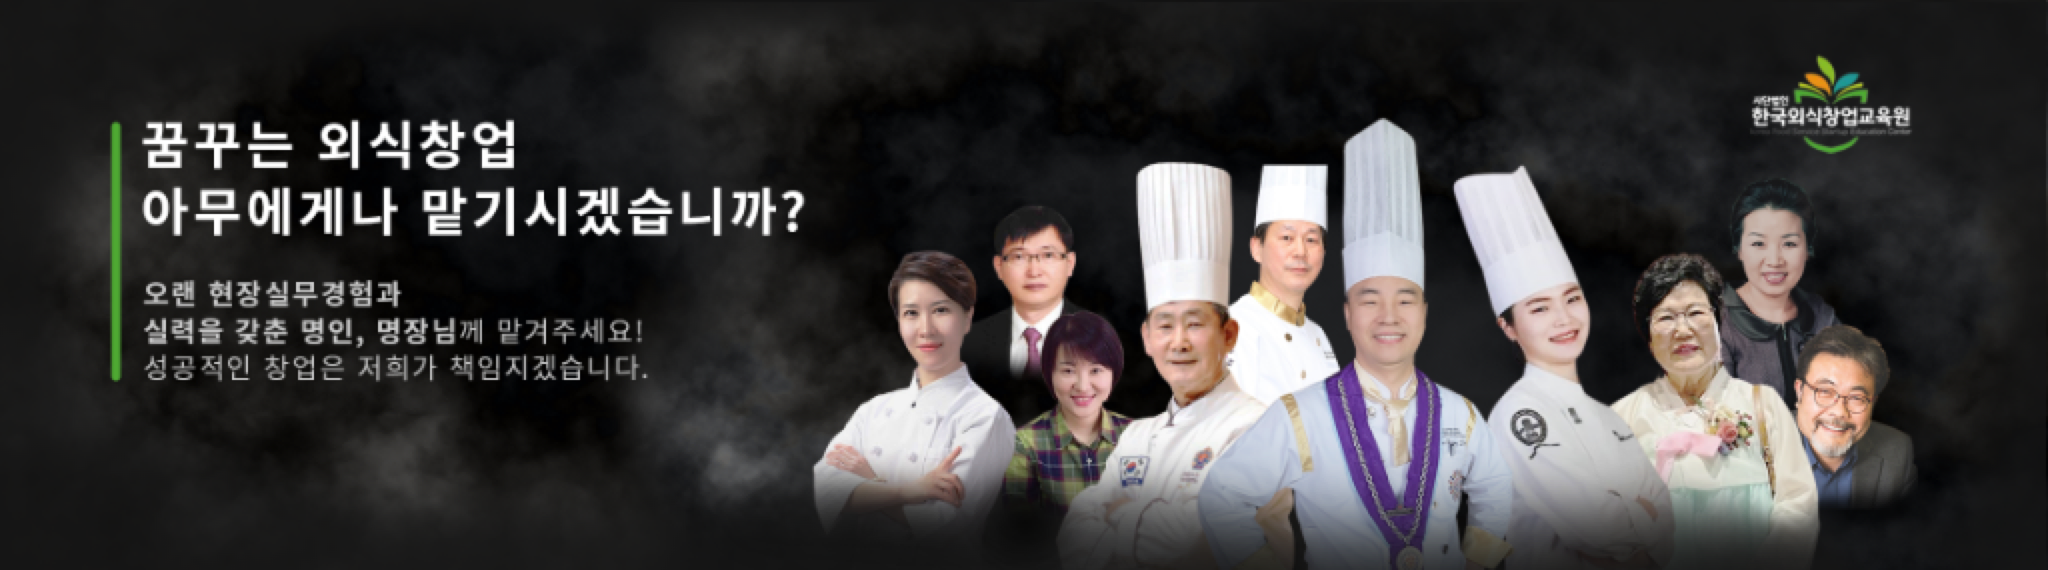
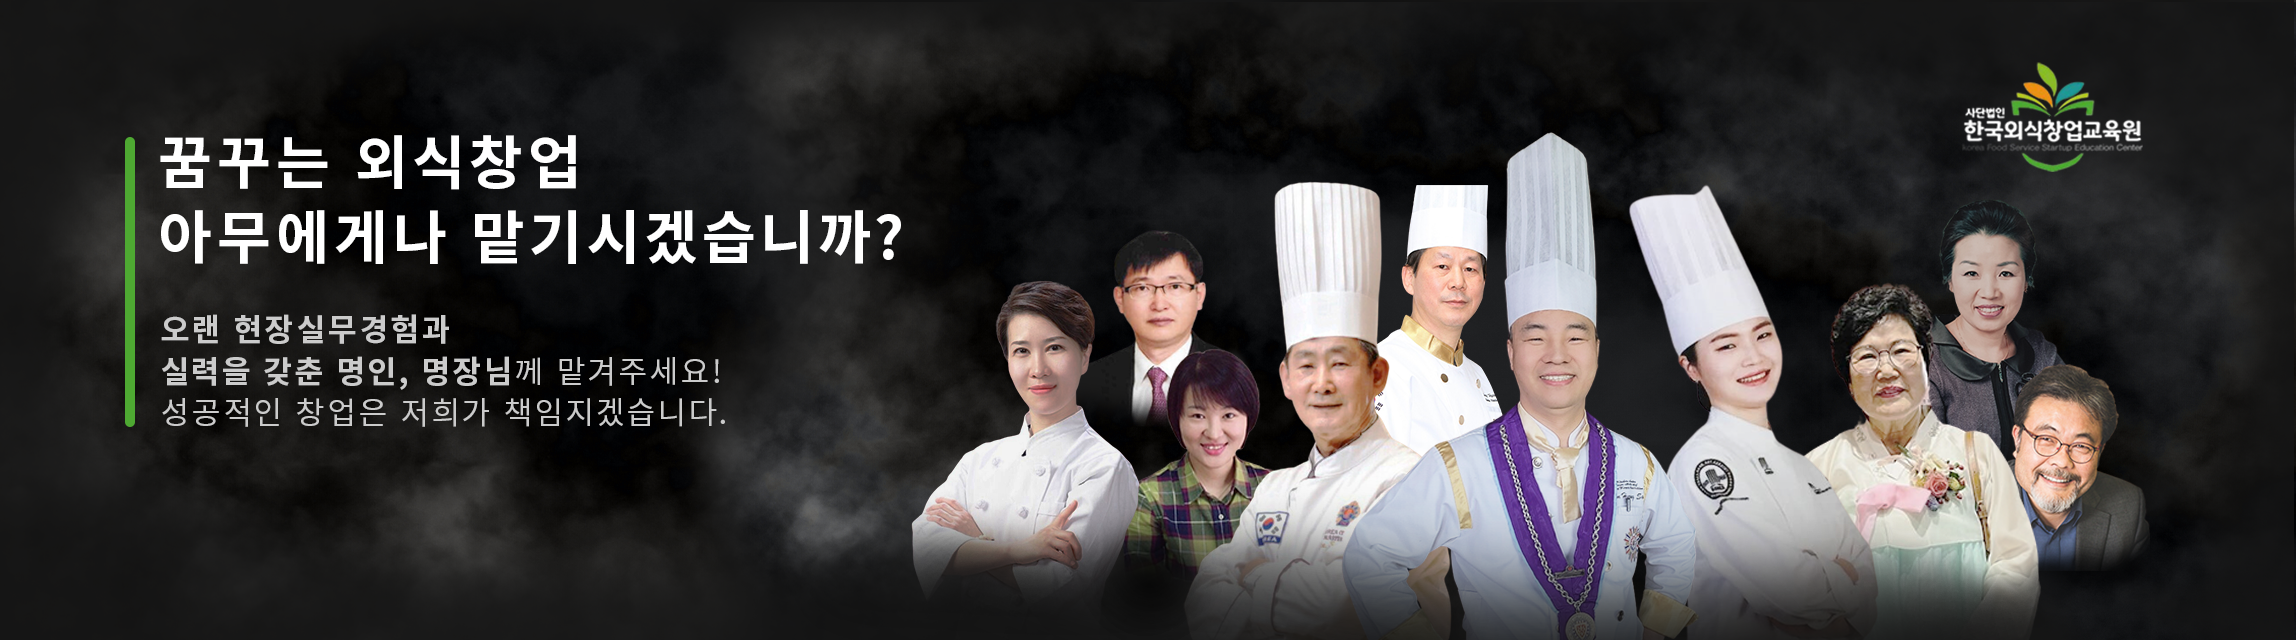
fix: KFSSEC/이미지/배너1.png 2296px 원본 파일 교체 및 풀블리드 여백/크롭 제로화 적용

diff --git a/src/components/Hero.jsx b/src/components/Hero.jsx
@@ -6,94 +6,94 @@ export default function Hero({ onExploreClick, onAboutClick, onScrollNext }) {
   const { t } = useLanguage();
 
   return (
-    <section className="relative overflow-hidden bg-[#070908] text-white border-b-2 border-[#C5A059] shadow-2xl">
+    <section className="relative w-full overflow-hidden bg-[#000000] text-white border-b-2 border-[#C5A059] shadow-2xl">
       
-      {/* Main Wide Banner Showcase - 100% Full Aspect Ratio Preserved, Never Cropped! */}
-      <div className="w-full bg-[#050505] flex justify-center items-center pt-3 pb-2 sm:pt-6 sm:pb-4 border-b border-stone-900">
-        <div className="w-full max-w-[1500px] px-2 sm:px-4 lg:px-6">
-          <div className="relative w-full rounded-2xl overflow-hidden shadow-2xl bg-black border border-stone-800/80">
-            <img
-              src="/images/main_banner_masters_2x.png"
-              srcSet="/images/main_banner_masters.png 1024w, /images/main_banner_masters_2x.png 2048w"
-              sizes="(max-width: 1024px) 100vw, 1500px"
-              alt={t("꿈꾸는 외식창업 아무에게나 맡기시겠습니까? 사단법인 한국외식창업교육원 대한민국 명인·명장 교수진")}
-              className="w-full h-auto block object-contain mx-auto"
-              style={{ imageRendering: '-webkit-optimize-contrast' }}
-            />
-          </div>
+      {/* 100% Full-bleed Ultra-HD Banner (2296x640 Native Aspect Ratio, Zero Cropping, Zero Border Padding) */}
+      <div className="w-full bg-[#000000] flex justify-center items-center">
+        <div className="w-full max-w-[2296px] mx-auto">
+          <img
+            src="/images/main_banner_masters.png"
+            alt={t("꿈꾸는 외식창업 아무에게나 맡기시겠습니까? 사단법인 한국외식창업교육원 대한민국 명인·명장 교수진")}
+            className="w-full h-auto block select-none"
+            style={{
+              aspectRatio: '2296 / 640',
+            }}
+          />
         </div>
       </div>
 
       {/* Floating Action Buttons & 3 Core Stats Overlay */}
-      <div className="relative z-10 py-6 sm:py-8 px-4 sm:px-8 max-w-7xl mx-auto flex flex-col items-center gap-5 sm:gap-6">
-        
-        {/* Action Buttons Row */}
-        <div className="flex flex-col sm:flex-row items-stretch sm:items-center justify-center gap-3 sm:gap-4 w-full sm:w-auto">
-          <button
-            onClick={onExploreClick}
-            className="px-7 sm:px-9 py-3.5 bg-gradient-to-r from-[#0B3C26] to-[#146340] hover:from-[#072819] hover:to-[#0B3C26] text-white font-black text-sm sm:text-base rounded-2xl shadow-2xl transition-all flex items-center justify-center gap-2 border-2 border-[#C5A059] cursor-pointer group"
-            aria-label={t("교육과정 둘러보기 목록으로 이동")}
-          >
-            <span>{t("교육과정 둘러보기")}</span>
-            <ChevronRight className="w-5 h-5 text-[#D4AF37] group-hover:translate-x-1 transition-transform" />
-          </button>
+      <div className="relative z-10 bg-gradient-to-b from-[#000000] via-[#050A07] to-[#0B150F] py-6 sm:py-8 px-4 sm:px-8 border-t border-stone-900">
+        <div className="max-w-7xl mx-auto flex flex-col items-center gap-5 sm:gap-6">
+          
+          {/* Action Buttons Row */}
+          <div className="flex flex-col sm:flex-row items-stretch sm:items-center justify-center gap-3 sm:gap-4 w-full sm:w-auto">
+            <button
+              onClick={onExploreClick}
+              className="px-7 sm:px-9 py-3.5 bg-gradient-to-r from-[#0B3C26] to-[#146340] hover:from-[#072819] hover:to-[#0B3C26] text-white font-black text-xs sm:text-sm rounded-2xl shadow-2xl transition-all flex items-center justify-center gap-2 border-2 border-[#C5A059] cursor-pointer group"
+              aria-label={t("교육과정 둘러보기 목록으로 이동")}
+            >
+              <span>{t("교육과정 둘러보기")}</span>
+              <ChevronRight className="w-4 h-4 text-[#D4AF37] group-hover:translate-x-1 transition-transform" />
+            </button>
 
-          <button
-            onClick={onAboutClick}
-            className="px-7 sm:px-9 py-3.5 bg-black/80 hover:bg-black text-[#D4AF37] hover:text-white font-black text-sm sm:text-base rounded-2xl shadow-2xl transition-all flex items-center justify-center gap-2 border-2 border-[#C5A059]/80 cursor-pointer group backdrop-blur-md"
-            aria-label={t("교육원 상세 소개 페이지로 이동")}
-          >
-            <span>{t("교육원 소개")}</span>
-            <ChevronRight className="w-5 h-5 text-white group-hover:translate-x-1 transition-transform" />
-          </button>
-        </div>
-
-        {/* 3 Core Stats Card */}
-        <div className="w-full max-w-2xl bg-white text-gray-900 border-2 border-[#C5A059] rounded-2xl p-4 sm:p-5 shadow-2xl">
-          <div className="grid grid-cols-3 gap-2 sm:gap-4 divide-x divide-stone-200">
-            
-            {/* Stat 1: 1·2급 자격과정 */}
-            <div className="flex flex-col items-center text-center px-1">
-              <div className="w-9 h-9 sm:w-10 sm:h-10 rounded-xl bg-[#F2ECE0] border border-[#D4C5B0] flex items-center justify-center mb-1 text-[#0B3C26] shadow-xs">
-                <GraduationCap className="w-4 h-4 sm:w-5 sm:h-5 stroke-[2]" />
-              </div>
-              <span className="text-sm sm:text-base lg:text-lg font-black text-[#0B3C26] tracking-tight leading-tight">
-                {t("온·오프라인")}
-              </span>
-              <span className="text-[11px] sm:text-xs font-bold text-gray-600 mt-0.5">
-                {t("1·2급 자격과정")}
-              </span>
-            </div>
-
-            {/* Stat 2: 수강 기간 */}
-            <div className="flex flex-col items-center text-center px-1">
-              <div className="w-9 h-9 sm:w-10 sm:h-10 rounded-xl bg-[#F2ECE0] border border-[#D4C5B0] flex items-center justify-center mb-1 text-[#0B3C26] shadow-xs">
-                <Award className="w-4 h-4 sm:w-5 sm:h-5 stroke-[2]" />
-              </div>
-              <span className="text-sm sm:text-base lg:text-lg font-black text-[#0B3C26] tracking-tight leading-tight">
-                {t("4~8주 완성")}
-              </span>
-              <span className="text-[11px] sm:text-xs font-bold text-gray-600 mt-0.5">
-                {t("수강 기간")}
-              </span>
-            </div>
-
-            {/* Stat 3: 5대 전문과정 */}
-            <div className="flex flex-col items-center text-center px-1">
-              <div className="w-9 h-9 sm:w-10 sm:h-10 rounded-xl bg-[#F2ECE0] border border-[#D4C5B0] flex items-center justify-center mb-1 text-[#0B3C26] shadow-xs">
-                <Building2 className="w-4 h-4 sm:w-5 sm:h-5 stroke-[2]" />
-              </div>
-              <span className="text-sm sm:text-base lg:text-lg font-black text-[#0B3C26] tracking-tight leading-tight">
-                {t("5대 전문과정")}
-              </span>
-              <span className="text-[11px] sm:text-xs font-bold text-gray-600 mt-0.5 truncate max-w-[120px] sm:max-w-none">
-                {t("창업·푸드테크·와인")}
-              </span>
-            </div>
-
+            <button
+              onClick={onAboutClick}
+              className="px-7 sm:px-9 py-3.5 bg-black/80 hover:bg-black text-[#D4AF37] hover:text-white font-black text-xs sm:text-sm rounded-2xl shadow-2xl transition-all flex items-center justify-center gap-2 border-2 border-[#C5A059]/80 cursor-pointer group backdrop-blur-md"
+              aria-label={t("교육원 상세 소개 페이지로 이동")}
+            >
+              <span>{t("교육원 소개")}</span>
+              <ChevronRight className="w-4 h-4 text-white group-hover:translate-x-1 transition-transform" />
+            </button>
           </div>
-        </div>
 
+          {/* 3 Core Stats Card */}
+          <div className="w-full max-w-2xl bg-white text-gray-900 border-2 border-[#C5A059] rounded-2xl p-4 sm:p-5 shadow-2xl">
+            <div className="grid grid-cols-3 gap-2 sm:gap-4 divide-x divide-stone-200">
+              
+              {/* Stat 1: 1·2급 자격과정 */}
+              <div className="flex flex-col items-center text-center px-1">
+                <div className="w-9 h-9 sm:w-10 sm:h-10 rounded-xl bg-[#F2ECE0] border border-[#D4C5B0] flex items-center justify-center mb-1 text-[#0B3C26] shadow-xs">
+                  <GraduationCap className="w-4 h-4 sm:w-5 sm:h-5 stroke-[2]" />
+                </div>
+                <span className="text-sm sm:text-base lg:text-lg font-black text-[#0B3C26] tracking-tight leading-tight">
+                  {t("온·오프라인")}
+                </span>
+                <span className="text-[11px] sm:text-xs font-bold text-gray-600 mt-0.5">
+                  {t("1·2급 자격과정")}
+                </span>
+              </div>
+
+              {/* Stat 2: 수강 기간 */}
+              <div className="flex flex-col items-center text-center px-1">
+                <div className="w-9 h-9 sm:w-10 sm:h-10 rounded-xl bg-[#F2ECE0] border border-[#D4C5B0] flex items-center justify-center mb-1 text-[#0B3C26] shadow-xs">
+                  <Award className="w-4 h-4 sm:w-5 sm:h-5 stroke-[2]" />
+                </div>
+                <span className="text-sm sm:text-base lg:text-lg font-black text-[#0B3C26] tracking-tight leading-tight">
+                  {t("4~8주 완성")}
+                </span>
+                <span className="text-[11px] sm:text-xs font-bold text-gray-600 mt-0.5">
+                  {t("수강 기간")}
+                </span>
+              </div>
+
+              {/* Stat 3: 5대 전문과정 */}
+              <div className="flex flex-col items-center text-center px-1">
+                <div className="w-9 h-9 sm:w-10 sm:h-10 rounded-xl bg-[#F2ECE0] border border-[#D4C5B0] flex items-center justify-center mb-1 text-[#0B3C26] shadow-xs">
+                  <Building2 className="w-4 h-4 sm:w-5 sm:h-5 stroke-[2]" />
+                </div>
+                <span className="text-sm sm:text-base lg:text-lg font-black text-[#0B3C26] tracking-tight leading-tight">
+                  {t("5대 전문과정")}
+                </span>
+                <span className="text-[11px] sm:text-xs font-bold text-gray-600 mt-0.5 truncate max-w-[120px] sm:max-w-none">
+                  {t("창업·푸드테크·와인")}
+                </span>
+              </div>
+
+            </div>
+          </div>
+
+        </div>
       </div>
 
       {/* Scroll Down Indicator */}
